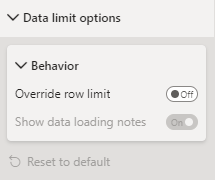
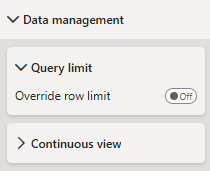
docs: add continuous view feature details and update query limit doc

diff --git a/docs/deeper-concepts/pbir-guide.md b/docs/deeper-concepts/pbir-guide.md
@@ -344,22 +344,24 @@ Properties in this group are concerned with the specification and configuration 
 
 Properties in this group are displayed in the _Rendered visual_ property menu in the formatting pane and are concerned with any processing Deneb does to the visual output on top of the Vega view.
 
-| Property              | Default Value (if Omitted) | Type                | Remarks                                                                                                                                                                                                                                            |
-| --------------------- | -------------------------- | ------------------- | -------------------------------------------------------------------------------------------------------------------------------------------------------------------------------------------------------------------------------------------------- |
-| `scrollbarColor`      | `#000000`                  | [color](#color)     | The color of the [container scrollbar](scrolling-overflow#configuring-scrollbar-appearance) when it is shown.                                                                                                                                      |
-| `scrollbarOpacity`    | `20D`                      | [integer](#integer) | The opacity of the [container scrollbar](scrolling-overflow#configuring-scrollbar-appearance) when it is shown. Values are converted to decimal percentage by Deneb, and valid values are `0D` to `100D`.                                          |
-| `scrollbarRadius`     | `0D`                       | [integer](#integer) | The border radius of the [container scrollbar](scrolling-overflow#configuring-scrollbar-appearance) in px when it is shown. Valid values are `0D` to `8D`.                                                                                          |
-| `scrollbarWidth`      | `10D`                      | [integer](#integer) | The width of the [container scrollbar](scrolling-overflow#configuring-scrollbar-appearance) in px when it is shown. Valid values are `8D` upwards; values below `8D` are not usable for interactive handles.                                        |
-| `scrollEventThrottle` | `5D`                       | [integer](#integer) | The throttle delay in ms for updating the container scroll position values [in the `denebContainer` signal](scrolling-overflow#using-denebcontainer-to-track-scrolling-events). Valid values are `0D` to `1000D`.                                   |
+| Property              | Default Value (if Omitted) | Type                | Remarks                                                                                                                                                                                                           |
+| --------------------- | -------------------------- | ------------------- | ----------------------------------------------------------------------------------------------------------------------------------------------------------------------------------------------------------------- |
+| `scrollbarColor`      | `#000000`                  | [color](#color)     | The color of the [container scrollbar](scrolling-overflow#configuring-scrollbar-appearance) when it is shown.                                                                                                     |
+| `scrollbarOpacity`    | `20D`                      | [integer](#integer) | The opacity of the [container scrollbar](scrolling-overflow#configuring-scrollbar-appearance) when it is shown. Values are converted to decimal percentage by Deneb, and valid values are `0D` to `100D`.         |
+| `scrollbarRadius`     | `0D`                       | [integer](#integer) | The border radius of the [container scrollbar](scrolling-overflow#configuring-scrollbar-appearance) in px when it is shown. Valid values are `0D` to `8D`.                                                        |
+| `scrollbarWidth`      | `10D`                      | [integer](#integer) | The width of the [container scrollbar](scrolling-overflow#configuring-scrollbar-appearance) in px when it is shown. Valid values are `8D` upwards; values below `8D` are not usable for interactive handles.      |
+| `scrollEventThrottle` | `5D`                       | [integer](#integer) | The throttle delay in ms for updating the container scroll position values [in the `denebContainer` signal](scrolling-overflow#using-denebcontainer-to-track-scrolling-events). Valid values are `0D` to `1000D`. |
 
 ### `objects.dataLimit`
 
-Properties in this group are displayed in the _Data limit options_ menu and determine how Deneb handles [data row limits](dataset#data-row-limits) imposed by Power BI.
+Properties in this group are displayed in the _Data management_ menu and determine how Deneb handles [data row limits](dataset#data-row-limits) imposed by Power BI, as well as [continuous view](dataset#continuous-view-data-patching) settings.
 
-| Property                | Default Value (if Omitted) | Type                | Remarks                                                                                                                                                                         |
-| ----------------------- | -------------------------- | ------------------- | ------------------------------------------------------------------------------------------------------------------------------------------------------------------------------- |
-| `override`              | `false`                    | [boolean](#boolean) | When `true`, this will enable the[ _Override row limit_ property](dataset#data-row-limits), instructing Deneb to fetch more data when the standard 10,000 row limit is reached. |
-| `showCustomVisualNotes` | `true`                     | [boolean](#boolean) | When `true`, this will show the _Custom visual notes_ section in the editor's data panel when data is being fetched.                                                            |
+| Property                       | Default Value (if Omitted) | Type                | Remarks                                                                                                                                                                                                                                                                                                              |
+| ------------------------------ | -------------------------- | ------------------- | -------------------------------------------------------------------------------------------------------------------------------------------------------------------------------------------------------------------------------------------------------------------------------------------------------------------- |
+| `override`                     | `false`                    | [boolean](#boolean) | When `true`, this will enable the[ _Override row limit_ property](dataset#data-row-limits), instructing Deneb to fetch more data when the standard 10,000 row limit is reached.                                                                                                                                      |
+| `showCustomVisualNotes`        | `true`                     | [boolean](#boolean) | When `true`, this will show the _Custom visual notes_ section in the editor's data panel when data is being fetched.                                                                                                                                                                                                 |
+| `enableIncrementalDataUpdates` | `false`                    | [boolean](#boolean) | When `true`, enables the [continuous view](dataset#continuous-view-data-patching) feature, patching dataset updates into the existing Vega view rather than recompiling the specification. Only applies when the updated dataset is within the configured `incrementalUpdateThreshold` and the spec is eligible.     |
+| `incrementalUpdateThreshold`   | `500D`                     | [integer](#integer) | The maximum row count at which dataset updates will be patched rather than trigger a full recompile. Valid values are `5D` to `5000D`; the `5000D` ceiling is a hard limit imposed by Deneb (the main thread cannot safely support patching above this). Only applies when `enableIncrementalDataUpdates` is `true`. |
 
 ### `objects.developer`
 
@@ -373,12 +375,12 @@ Properties in this group are intended for internal use.
 
 Properties in this group are intended for internal use and transient state management between sessions.
 
-| Property         | Default Value (if Omitted) | Type                | Remarks                                                                                                                                                                                                                                                                                                                                                                                                   |
-| ---------------- | -------------------------- | ------------------- | --------------------------------------------------------------------------------------------------------------------------------------------------------------------------------------------------------------------------------------------------------------------------------------------------------------------------------------------------------------------------------------------------------- |
-| `viewportHeight` | `null` [managed by Deneb]  | [integer](#integer) | The last known height of the visual viewport when viewing normally (in px). If omitted, Deneb will calculate this and update it whenever the visual is updated, ensuring it matches the visual container on the canvas. It is only needed to ensure that the preview is correctly sized in the Advanced Editor and is not necessary for any automation. Details have only been included for completeness. |
-| `viewportWidth`  | `null` [managed by Deneb]  | [integer](#integer) | The last known width of the visual viewport when viewing normally (in px). If omitted, Deneb will calculate this and update it whenever the visual is updated, ensuring it matches the visual container on the canvas. It is only needed to ensure that the preview is correctly sized in the Advanced Editor and is not necessary for any automation. Details have only been included for completeness.  |
-| `denebMetaVersion` | `""` [managed by Deneb]  | [text](#text)     | Records the version of Deneb's internal metadata schema that was in effect when the project was last saved, so that migrations can be applied when the project is opened in a newer version of the visual. Managed automatically by Deneb and not necessary for any automation; details have only been included for completeness.                                                                       |
-| `scaleToZoom`    | `false`                    | [boolean](#boolean) | When `true`, the canvas renderer scales its resolution to match the current report zoom level (multiplied by the editor preview zoom, when viewing in the Advanced Editor) to reduce blurriness at non-100% zoom. Only applies when the Canvas renderer is selected; has no effect under SVG. Refer to the [Settings Pane](visual-editor#settings-pane) for more details.                                  |
+| Property           | Default Value (if Omitted) | Type                | Remarks                                                                                                                                                                                                                                                                                                                                                                                                   |
+| ------------------ | -------------------------- | ------------------- | --------------------------------------------------------------------------------------------------------------------------------------------------------------------------------------------------------------------------------------------------------------------------------------------------------------------------------------------------------------------------------------------------------- |
+| `viewportHeight`   | `null` [managed by Deneb]  | [integer](#integer) | The last known height of the visual viewport when viewing normally (in px). If omitted, Deneb will calculate this and update it whenever the visual is updated, ensuring it matches the visual container on the canvas. It is only needed to ensure that the preview is correctly sized in the Advanced Editor and is not necessary for any automation. Details have only been included for completeness. |
+| `viewportWidth`    | `null` [managed by Deneb]  | [integer](#integer) | The last known width of the visual viewport when viewing normally (in px). If omitted, Deneb will calculate this and update it whenever the visual is updated, ensuring it matches the visual container on the canvas. It is only needed to ensure that the preview is correctly sized in the Advanced Editor and is not necessary for any automation. Details have only been included for completeness.  |
+| `denebMetaVersion` | `""` [managed by Deneb]    | [text](#text)       | Records the version of Deneb's internal metadata schema that was in effect when the project was last saved, so that migrations can be applied when the project is opened in a newer version of the visual. Managed automatically by Deneb and not necessary for any automation; details have only been included for completeness.                                                                         |
+| `scaleToZoom`      | `false`                    | [boolean](#boolean) | When `true`, the canvas renderer scales its resolution to match the current report zoom level (multiplied by the editor preview zoom, when viewing in the Advanced Editor) to reduce blurriness at non-100% zoom. Only applies when the Canvas renderer is selected; has no effect under SVG. Refer to the [Settings Pane](visual-editor#settings-pane) for more details.                                 |
 
 ### `objects.editor`
 

diff --git a/docs/getting-started/dataset.md b/docs/getting-started/dataset.md
@@ -57,6 +57,23 @@ If you're used to working with JSON, a representation similar to the following J
 }
 ```
 
+## Continuous View (Data Patching)
+
+When Deneb receives a dataset update from Power BI - for example, after a slicer, cross-filter, or filter-pane change - the default behavior is to recompile the specification and re-initialize the Vega view from scratch. This resets the view state, such as zoom, pan, facet page, and any signal values driven by form widgets.
+
+From 2.0, you can enable the **Enable patching for hosted datasets** option, available in the _Continuous view_ section of the [**Project setup** pane in the Visual editor](visual-editor#settings-pane), which updates the existing Vega view with new data instead, preserving view state across dataset updates. The setting is **off by default**. A companion **Row threshold for patching** setting controls the upper row count at which patching will be used.
+
+![The Continuous view section of the Project setup pane, showing the Enable patching for hosted datasets and Row threshold for patching options.](./img/continuous-view-enabled.png "The Continuous view section of the Project setup pane, showing the Enable patching for hosted datasets and Row threshold for patching options.")
+
+Limits and considerations:
+
+- Patching applies only when the updated dataset has no more than the configured row threshold (default: `500` rows). Above the threshold, Deneb will recompile and re-initialize as usual.
+- There is a hard upper ceiling of `5,000` rows, above which patching is always bypassed, regardless of the configured threshold - the main thread cannot safely support patching above certain points, and you may notice severe [performance](performance#continuous-view-thresholds) degradation at higher cardinality or complexity.
+- If patching fails for reasons other than row count (for example, on specs with force transforms that involve aggregates), Deneb will fall back to a full recompile and log a warning in the [Logs pane](visual-editor#logs-pane) explaining the fallback reason.
+- The _Continuous view_ section in the **Project setup** pane will indicate whether patching is currently _active_ or _inactive_ for your dataset, so you can see at a glance whether updates are being patched or recompiled.
+
+As this is a new feature under active evaluation, it is recommended to enable it only after confirming that your visual behaves as expected under realistic dataset updates (slicing, cross-filtering, and so on). If you notice inconsistent behavior, disable the setting and [open an issue](https://github.com/deneb-viz/deneb/issues/new) so we can reproduce and harden the feature accordingly.
+
 ## Referencing Columns and Measures
 
 Wherever you need to reference a column or a measure in your specification, you should use its **display name** from the **Values** data role rather than those from the data model.
@@ -114,19 +131,19 @@ In the case of a Vega specification, you can potentially add further `data` obje
 
 Both [Vega](https://vega.github.io/vega/docs/transforms/) and [Vega-Lite](https://vega.github.io/vega-lite/docs/transform.html) support the concept of transforms, which ultimately mutate the data from its initial state. Whilst this approach may be necessary to produce particular types of visuals, this changes the row context, and some features may no longer be available (particularly those that leverage interactivity). Please refer to the pages in the [Interactivity Features](interactivity-overview) section for more details.
 
-## Data Row Limits
+## Query (Row) Limits
 
 To keep performance usable in most cases, the visual caps the row count at **10,000** by default.
 
-It is, however, possible to override this if you so wish, but the number of rows returned will be subject to resource limits and entirely at Power BI's discretion. If you wish to override this, you can find the _Data Limit Options_ menu in the Power BI Format pane:
+It is, however, possible to override this if you so wish, but the number of rows returned will be subject to resource limits and entirely at Power BI's discretion. If you wish to override this, you can find the _Data management_ menu in the Power BI Format pane:
 
-![The Data Limit Options menu in the Format pane.](./img/data-limit-options-initial.png "The Data Limit Options menu in the Format pane.")
+![The Data management menu in the Format pane.](./img/data-limit-options-initial.png "The Data management menu in the Format pane.")
 
-Switching on the **Override Row Limit** property will ask Power BI to load more rows into the dataset, in batches of 10,000:
+Switching on the **Override row limit** property will ask Power BI to load more rows into the dataset, in batches of 10,000:
 
-![Enabling the Override Row Limit property will display status information while Power BI is fetching additional data from the data model.](./img/data-limit-override-enabled.png "Enabling the Override Row Limit property will display status information while Power BI is fetching additional data from the data model.")
+![Enabling the `Override row limit` property will display status information while Power BI is fetching additional data from the data model.](./img/data-limit-override-enabled.png "Enabling the `Override row limit` property will display status information while Power BI is fetching additional data from the data model.")
 
-Because there's a lot to consider when enabling this property, the **Show Data Loading Notes** property is enabled by default to provide creators or developers with a bit more detail on the caveats of using this feature in a condensed space.
+Because there's a lot to consider when enabling this property, the **Show data loading notes** property is enabled by default to provide creators or developers with a bit more detail on the caveats of using this feature in a condensed space.
 
 Whilst the information can probably be seen in the screenshot, the important details are listed here too for you to bear in mind:
 

diff --git a/docs/changelog.md b/docs/changelog.md
@@ -31,6 +31,25 @@ From the beginning, Deneb's spec parsing and embed process was always a case of 
 
 In conjunction with the architectural improvements made in 1.9, this now opens the way for many features that were too hard to deliver without complicating things further. And, we're getting some of these features into this release, too! Read on for details on what else you have to enjoy.
 
+### Continuous View
+
+To date, any changes external to Deneb on the canvas that affect the generated dataset - slicing, cross-filtering from other visuals, filter pane changes - would trigger a full re-render, effectively resetting the view back to its initial state each time. The changes to the parse and render pipeline described above have enabled a long-requested capability: a **continuous view** that stays durable across dataset updates, provided the dataset is eligible.
+
+When enabled, Deneb patches the updated data into the existing Vega view rather than recompiling the specification. This preserves:
+
+- **Current view state** - zoom, pan, facet page, and anything else driven by Vega signals.
+- **User input values** - signals bound to form widgets (dropdowns, sliders, etc.) retain whatever the user has selected.
+- **Selection state** - marks selected before the update remain selected after it, as long as their datum is still present in the new data.
+
+Eligibility is driven by two things:
+
+- **Row count**. Patching is intended for datasets that are not too large. By default it applies up to **500 rows**, configurable up to a hard ceiling of **5,000 rows** - beyond this point the main thread cannot safely support patching and you would notice severe performance degradation. Beyond either value, Deneb falls back to the standard recompile-and-re-init path.
+- **Spec compatibility**. Some spec shapes - for example, force transforms involving aggregates - cannot be patched reliably. In those cases Deneb also falls back to a full recompile and writes a warning to the [Logs pane](visual-editor#logs-pane) so you know why.
+
+The feature is **off by default** while it goes through real-world testing, and can be enabled via the **Enable patching for hosted datasets** option in the _Continuous view_ section of the [Project setup pane](visual-editor#settings-pane). That section will also tell you whether patching is currently _active_ or _inactive_ for your present dataset, so you can see at a glance whether updates are being patched or recompiled.
+
+Refer to [Dataset](dataset#continuous-view-data-patching) for further guidance.
+
 ### Canvas Renderer: Scale to Report Zoom
 
 The Vega canvas renderer offers many performance benefits over SVG for rendering large datasets, but it has downsides, such as not scaling with the report's zoom level due to its raster-based nature. This can make the visual appear blurry when the report is zoomed in.

diff --git a/docs/deeper-concepts/performance-considerations.md b/docs/deeper-concepts/performance-considerations.md
@@ -47,3 +47,9 @@ Any data that you add to the visual will have performance implications, specific
 - Creating a row context with lower granularity than you actually need, which can make producing the desired output more challenging.
 
 Therefore, only add the columns and measures (and filter context) that your visual needs to communicate its message.
+
+## Continuous View Thresholds
+
+The [continuous view](dataset#continuous-view-data-patching) option can preserve view state across dataset updates by patching data into the existing Vega view rather than recompiling from scratch. The **Row threshold for patching** gates when this is attempted, but row count alone is not always a reliable proxy for how expensive a patch actually is - the shape of your dataset (wide rows, nested values, complex transforms) can dominate.
+
+If a patching operation is sufficiently expensive, Power BI may suspend the visual if it takes too long to respond. When you enable the continuous view, test it under realistic data volumes; if you see responsiveness issues, lower the **Row threshold for patching** so more updates fall back to a full recompile, or disable the setting entirely.
